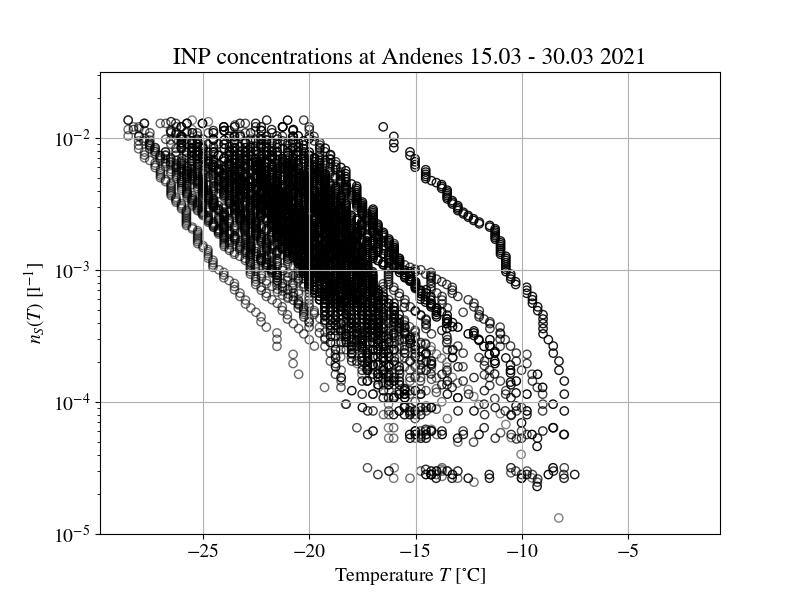
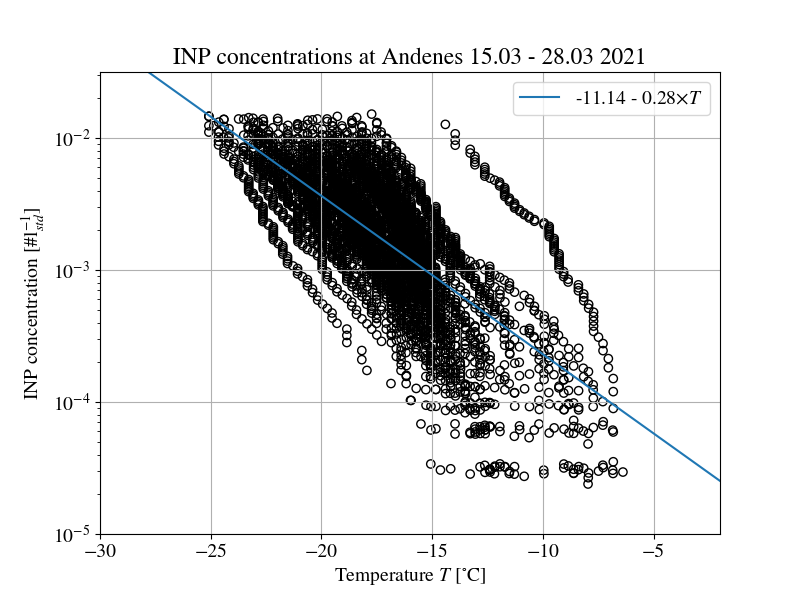
Made scripts to calibrate data, convert to standard litre concentration and create parameterisation. Order of magnitude wrong in INP conc

diff --git a/observations/code/calculatingNormalizations.py b/observations/code/calculatingNormalizations.py
@@ -1,0 +1,100 @@
+"""
+Author: Tim Carlsen, modified by Astrid Bragstad Gjelsvik
+"""
+
+import numpy as np
+import pandas as pd
+import glob
+
+path1 = "../../../MC2/"
+path2 = path1+"PostprocessedData/"
+fname2 = "Coriolis_nucleiOut.csv"
+
+# Read in Coriolis INP concentrations
+
+nucleiOut = pd.read_csv(path2+fname2)
+nCor = len(nucleiOut.iloc[0,:45])
+
+# Read in Coriolis log file
+
+df_cor = pd.read_csv(path1+"coriolis_log_all.csv", skiprows = 1)
+
+t_start = pd.DataFrame(df_cor['Date'] + ' ' + df_cor['Start (UTC)'], columns = ['t_start'])
+t_start = t_start.set_index('t_start')
+t_start.index = pd.to_datetime(t_start.index, format = '%d-%m-%Y %H:%M')
+
+t_end = pd.DataFrame(df_cor['Date'] + ' ' + df_cor['End (UTC)'], columns = ['t_end'])
+t_end = t_end.set_index('t_end')
+t_end.index = pd.to_datetime(t_end.index, format = '%d-%m-%Y %H:%M')
+
+# Get inlet temperature data
+
+files = sorted(glob.glob(path1+"Inlet_Temp/*.txt"))
+
+count = 0
+for f in files:
+    print(f)
+    df1 = pd.read_csv(f, delimiter = ',', parse_dates = ['Time'], index_col = ['Time'])
+    if count == 0:
+        df_temp = df1
+    else:
+        df_temp = pd.concat([df_temp, df1], axis = 0)
+        
+    count += 1
+
+# Get pressure data and average over timeperiod
+
+temp_all = []
+pres_all = []
+
+for cor in t_start.index[:nCor]:
+        
+    file = path1+"wind/WIND_"+str(cor.date())+".csv"
+    print(file)
+
+    # Read in meteorological file and extract pressure data
+    df = pd.read_csv(file, delimiter = ',', decimal = '.', skiprows = 14, 
+            names = ['date', 'time', 'var', 'sensor_id', 'ws', 'ws_unit', 'wind_dir', 
+                    'wind_dir_unit', 'w', 'w_unit', 'status'], index_col = False)
+    df2 = df
+    df2['Date'] = df2['date'] + ' ' + df2['time']
+    df2 = df2.set_index('Date')    
+    pres = df2.loc[(df2['var'] == 'PTHU')].reset_index()
+    pres = pres.set_index('Date')
+    pres.index = pd.to_datetime(pres.index, format = '%Y:%m:%d %H:%M:%S')
+    time_pres = pres.index.hour + pres.index.minute/60. + pres.index.second/3600.
+
+    pres.columns = ['date', 'time', 'var', 'p', 'p_unit', 'temp', 
+                    'temp_unit', 'RH', 'RH_unit', 'add1', 'add2']
+    p = np.array(pres['p']).astype(np.float)
+
+    
+    # Average over Coriolis sampling time periods
+    index_cor_pres = np.where((time_pres >= cor.hour+cor.minute/60.) & (time_pres <= cor.hour + cor.minute/60. + 40./60.))
+    pres_cor = np.nanmean(p[index_cor_pres])
+    
+    time_temp = df_temp[str(cor.date())].index.hour + df_temp[str(cor.date())].index.minute/60. + df_temp[str(cor.date())].index.second/3600.
+    index_cor_temp = np.where((time_temp >= cor.hour+cor.minute/60.) & (time_temp <= cor.hour + cor.minute/60. + 40./60.))
+    temp = np.nanmean(np.array(df_temp['Temperature(C)'][str(cor.date())])[index_cor_temp])
+    
+    # Add average pressure and temperatures to the list 
+    pres_all = np.append(pres_all, pres_cor)
+    temp_all = np.append(temp_all, temp)
+
+print(pres_all)
+print(temp_all)
+
+# Convert INP concentrations per litre to per standard litre
+
+nucleiOut_std = nucleiOut.iloc[:,:nCor]
+p_std = 1013.25
+T_std = 273.15
+
+for cor in range(nCor):
+
+    nucleiOut_std.iloc[:,cor] = nucleiOut.iloc[:,cor] * p_std/pres_all[cor] * (273.15 + temp_all[cor])/T_std 
+
+nucleiOut_std.to_csv(path2+"Coriolis_nucleiOut_std.csv")
+print(np.shape(nucleiOut_std))
+
+

diff --git a/observations/code/plottingOutlier.py b/observations/code/plottingOutlier.py
@@ -1,0 +1,83 @@
+import numpy as np
+import matplotlib.pyplot as plt
+import matplotlib
+matplotlib.rcParams['mathtext.fontset'] = 'stix'
+matplotlib.rcParams['font.family'] = 'STIXGeneral'
+plt.rcParams.update({'font.size':14})
+import pandas as pd
+from sklearn.linear_model import LinearRegression
+
+path = "../../../MC2/PostprocessedData/"
+fname1 = "Coriolis_nucleiT_cal.csv"
+fname2 = "Coriolis_nucleiOut_std.csv"
+
+nucleiT = pd.read_csv(path+fname1, index_col=0)
+nucleiOut = pd.read_csv(path+fname2, index_col=0)
+nCor = len(nucleiT.iloc[0,:45])
+
+outlier_sample = 0
+for i in range(nCor):
+    nucleiT_i = nucleiT.iloc[:,i]
+    nucleiOut_i = nucleiOut.iloc[:,i]
+    if nucleiT_i.iloc[-2]>-10:
+        if nucleiOut_i[np.where(nucleiT_i > -10)[0][0]] > 1e-3:
+            outlier_sample = i
+            print("Outlier: sample "+str(outlier_sample))
+
+X = nucleiT.iloc[1:-1,:nCor].to_numpy() # I disclude the first and last well, as the "concentration values here are not representative of reality
+Y = nucleiOut.iloc[1:-1,:nCor].to_numpy()
+
+X_ex1 = nucleiT.iloc[1:-1,:outlier_sample].to_numpy()
+X_ex2 = nucleiT.iloc[1:-1,outlier_sample+1:nCor].to_numpy()
+Y_ex1 = nucleiOut.iloc[1:-1,:outlier_sample].to_numpy()
+Y_ex2 = nucleiOut.iloc[1:-1,outlier_sample+1:nCor].to_numpy()
+
+X_ex = np.concatenate((X_ex1, X_ex2), axis=1)
+Y_ex = np.concatenate((Y_ex1, Y_ex2), axis=1)
+
+X = X.flatten()
+Y = Y.flatten()
+X_ex = X_ex.flatten()
+Y_ex = Y_ex.flatten()
+
+linreg = np.polyfit(X,np.log(Y), 1)
+slope = linreg[0]
+intercept = linreg[1]
+
+linreg_ex = np.polyfit(X_ex,np.log(Y_ex), 1)
+slope_ex = linreg_ex[0]
+intercept_ex = linreg_ex[1]
+
+print("With outlier:")
+print(slope)
+print(intercept)
+print("Without outlier:")
+print(slope_ex)
+print(intercept_ex)
+
+slope_L_W = -0.332
+intercept_L_W = -10.034
+
+plt.figure(figsize=(8,6))
+plt.title("INP concentrations at Andenes 15.03 - 28.03 2021")
+plt.grid()
+alpha=1
+for i in range(nCor-1):
+    plt.scatter(nucleiT.iloc[:,i],nucleiOut.iloc[:,i], alpha = alpha, color="none", edgecolor="black")
+    alpha -= 0.0
+plt.yscale("log")
+plt.ylim(10**(-5),10**(-1.5))
+plt.xlim(-30,-2)
+x = np.linspace(-30,-2,100)
+plt.plot(x, np.exp(intercept + slope*x), 
+        label="With outlier:\n exp("+str(round(intercept,3))+" - "+str(round(np.sign(slope)*slope,3))+r"$\times T$)")
+plt.plot(x, np.exp(intercept_ex + slope_ex*x), 
+        label="Without outlier:\n exp("+str(round(intercept_ex,3))+" - "+str(round(np.sign(slope_ex)*slope_ex,3))+r"$\times T$)")
+plt.plot(x, np.exp(intercept_L_W + slope_L_W*x),
+        label="Li and Wieder et.al.")
+plt.legend()
+plt.xlabel(r"Temperature $T$ [$^{\circ}$C]")
+plt.ylabel(r"INP concentration [#l$_{std}^{-1}$]")
+plt.savefig("../figures/INPconc_parameterisation.png")
+plt.show()
+

diff --git a/observations/code/plottingNormandCal.py b/observations/code/plottingNormandCal.py
@@ -1,0 +1,59 @@
+import numpy as np
+import matplotlib.pyplot as plt
+import matplotlib
+matplotlib.rcParams['mathtext.fontset'] = 'stix'
+matplotlib.rcParams['font.family'] = 'STIXGeneral'
+plt.rcParams.update({'font.size':14})
+import pandas as pd
+from sklearn.linear_model import LinearRegression
+
+path = "../../../MC2/PostprocessedData/"
+fname1 = "Coriolis_nucleiT_cal.csv"
+fname2 = "Coriolis_nucleiOut_std.csv"
+
+nucleiT = pd.read_csv(path+fname1, index_col=0)
+nucleiOut = pd.read_csv(path+fname2, index_col=0)
+nCor = len(nucleiT.iloc[0,:45])
+
+"""
+X = nucleiT.iloc[1:,:nCor].to_numpy()
+Y = nucleiOut.iloc[1:,:nCor].to_numpy()
+
+print(np.shape(X))
+print(np.shape(Y))
+
+linreg = LinearRegression().fit(X,Y)
+slope = linreg.coef_[0]
+intercept = linreg.intercept_
+r2_score = linreg.score(X,Y)
+
+print(slope)
+print(intercept)
+"""
+X = nucleiT.iloc[1:-1,:nCor].to_numpy() # I disclude the first and last well, as the "concentration values here are not representative of reality
+Y = nucleiOut.iloc[1:-1,:nCor].to_numpy()
+X = X.flatten()
+Y = Y.flatten()
+
+linreg = np.polyfit(X,np.log(Y), 1)
+slope = linreg[0]
+intercept = linreg[1]
+
+plt.figure(figsize=(8,6))
+plt.title("INP concentrations at Andenes 15.03 - 28.03 2021")
+plt.grid()
+alpha=1
+for i in range(nCor):
+    plt.scatter(nucleiT.iloc[:,i],nucleiOut.iloc[:,i], alpha = alpha, color="none", edgecolor="black")
+    alpha -= 0.0
+plt.yscale("log")
+plt.ylim(10**(-5),10**(-1.5))
+plt.xlim(-30,-2)
+x = np.linspace(-30,-2,100)
+plt.plot(x, np.exp(intercept + slope*x), label=str(round(intercept,2))+" - "+str(round(np.sign(slope)*slope,2))+r"$\times T$")
+plt.legend()
+plt.xlabel(r"Temperature $T$ [$^{\circ}$C]")
+plt.ylabel(r"INP concentration [#l$_{std}^{-1}$]")
+plt.savefig("../figures/INPconc_parameterisation.png")
+plt.show()
+

diff --git a/observations/code/plottingNormalizations.py b/observations/code/plottingNormalizations.py
@@ -1,0 +1,46 @@
+import numpy as np
+import matplotlib.pyplot as plt
+import matplotlib
+matplotlib.rcParams['mathtext.fontset'] = 'stix'
+matplotlib.rcParams['font.family'] = 'STIXGeneral'
+plt.rcParams.update({'font.size':14})
+import pandas as pd
+
+path = "../../../MC2/PostprocessedData/"
+fname1 = "Coriolis_nucleiT.csv"
+fname2 = "Coriolis_nucleiOut.csv"
+fname3 = "Coriolis_nucleiT_cal.csv"
+fname4 = "Coriolis_nucleiOut_std.csv"
+
+nucleiT = pd.read_csv(path+fname1)
+nucleiOut = pd.read_csv(path+fname2)
+nucleiT_cal = pd.read_csv(path+fname3,index_col=0)
+nucleiOut_std = pd.read_csv(path+fname4,index_col=0)
+
+nCor = len(nucleiT.iloc[0,:45])
+
+plt.figure(figsize=(8,6))
+plt.title("INP concentrations at Andenes 15.03 - 28.03 2021")
+plt.grid()
+alpha=1
+for i in range(nCor):
+    if i==0:
+        plt.scatter(nucleiT.iloc[:,i],nucleiOut.iloc[:,i], 
+                alpha = alpha, color="none", edgecolor="red",label='Uncorrected')
+        plt.scatter(nucleiT_cal.iloc[:,i],nucleiOut_std.iloc[:,i], 
+                alpha = alpha, color="none", edgecolor="black",label='Corrected')
+    else:
+        plt.scatter(nucleiT.iloc[:,i],nucleiOut.iloc[:,i], 
+                alpha = alpha, color="none", edgecolor="red")
+        plt.scatter(nucleiT_cal.iloc[:,i],nucleiOut_std.iloc[:,i], 
+                alpha = alpha, color="none", edgecolor="black")
+    alpha -= 0.01
+plt.yscale("log")
+plt.ylim(10**(-5),10**(-1.5))
+plt.xlabel(r"Temperature $T$ [$^{\circ}$C]")
+plt.ylabel(r"$n_S(T)$ [l$^{-1}$]")
+plt.legend()
+plt.savefig("../figures/INPconc_compare.png")
+plt.show()
+
+

diff --git a/observations/code/calculatingCalibrations.py b/observations/code/calculatingCalibrations.py
@@ -1,0 +1,28 @@
+"""
+Author: Astrid Bragstad Gjelsvik
+"""
+
+import numpy as np
+import pandas as pd
+import glob
+
+path1 = "../../../MC2/"
+path2 = path1+"PostprocessedData/"
+fname = "Coriolis_nucleiT.csv"
+
+# Read in Coriolis freezing temperatures
+
+nucleiT = pd.read_csv(path2+fname)
+
+# Adjust freezing temperatures with calibration values
+
+nucleiT_cal = nucleiT.iloc[:,:45]
+slope = 0.89
+intercept = 0.30
+
+nucleiT_cal = nucleiT.iloc[:,:45] * slope + intercept
+
+nucleiT_cal.to_csv(path2+"Coriolis_nucleiT_cal.csv")
+
+
+print(np.shape(nucleiT_cal))
